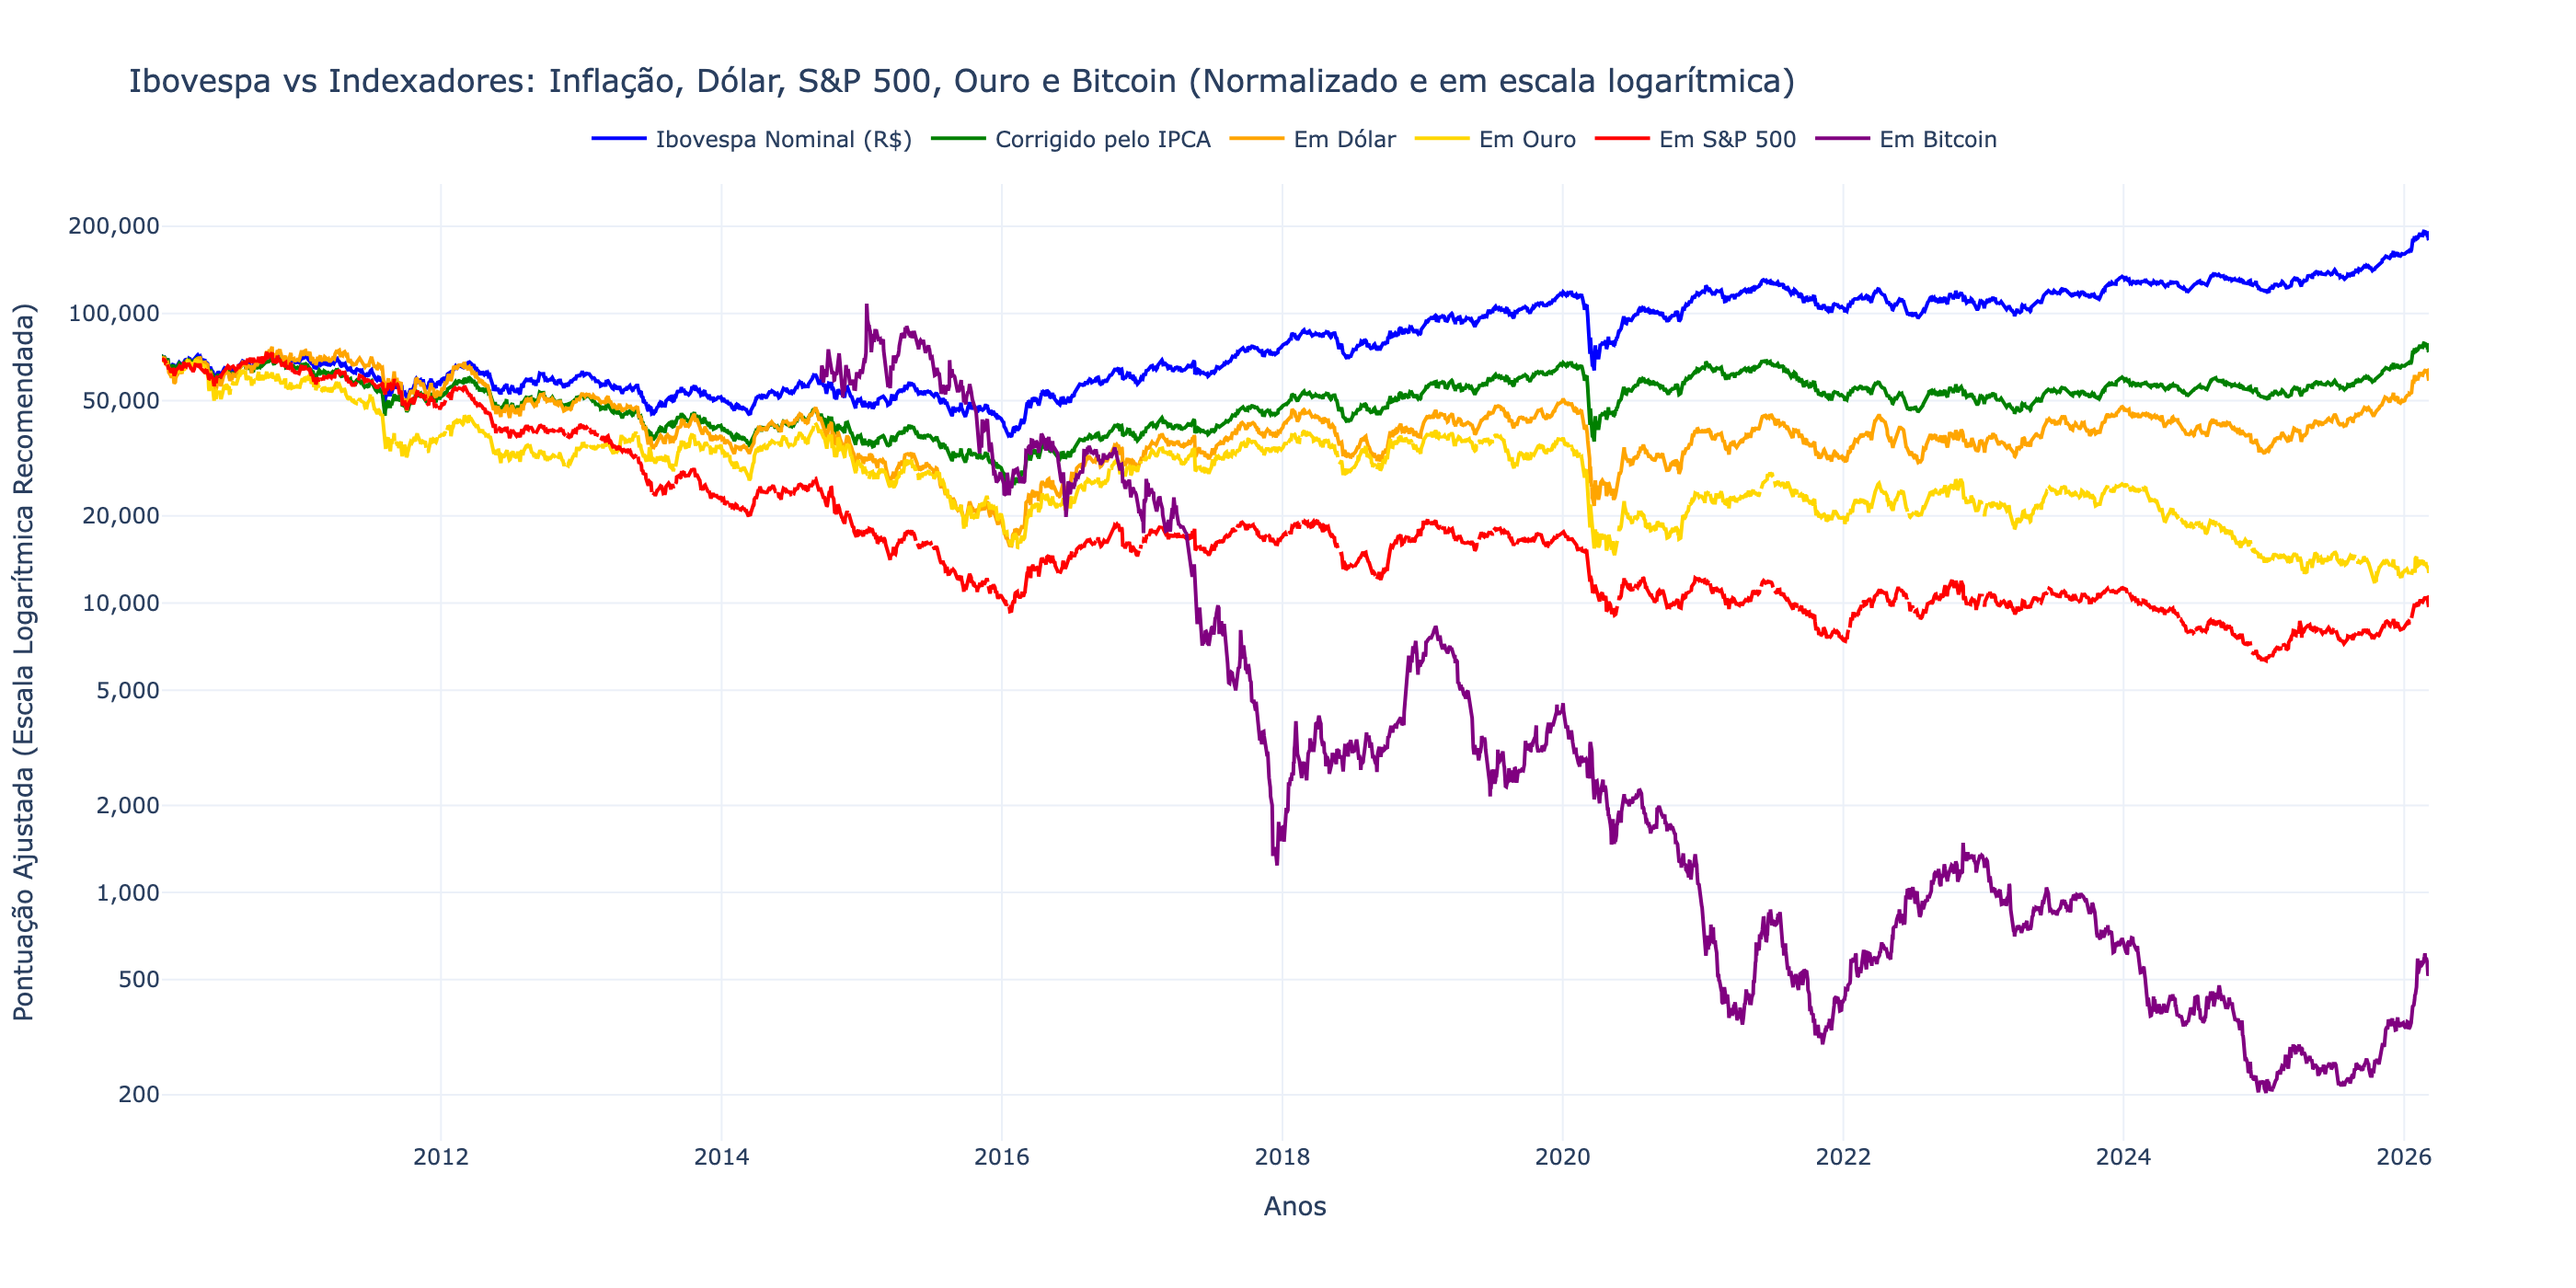
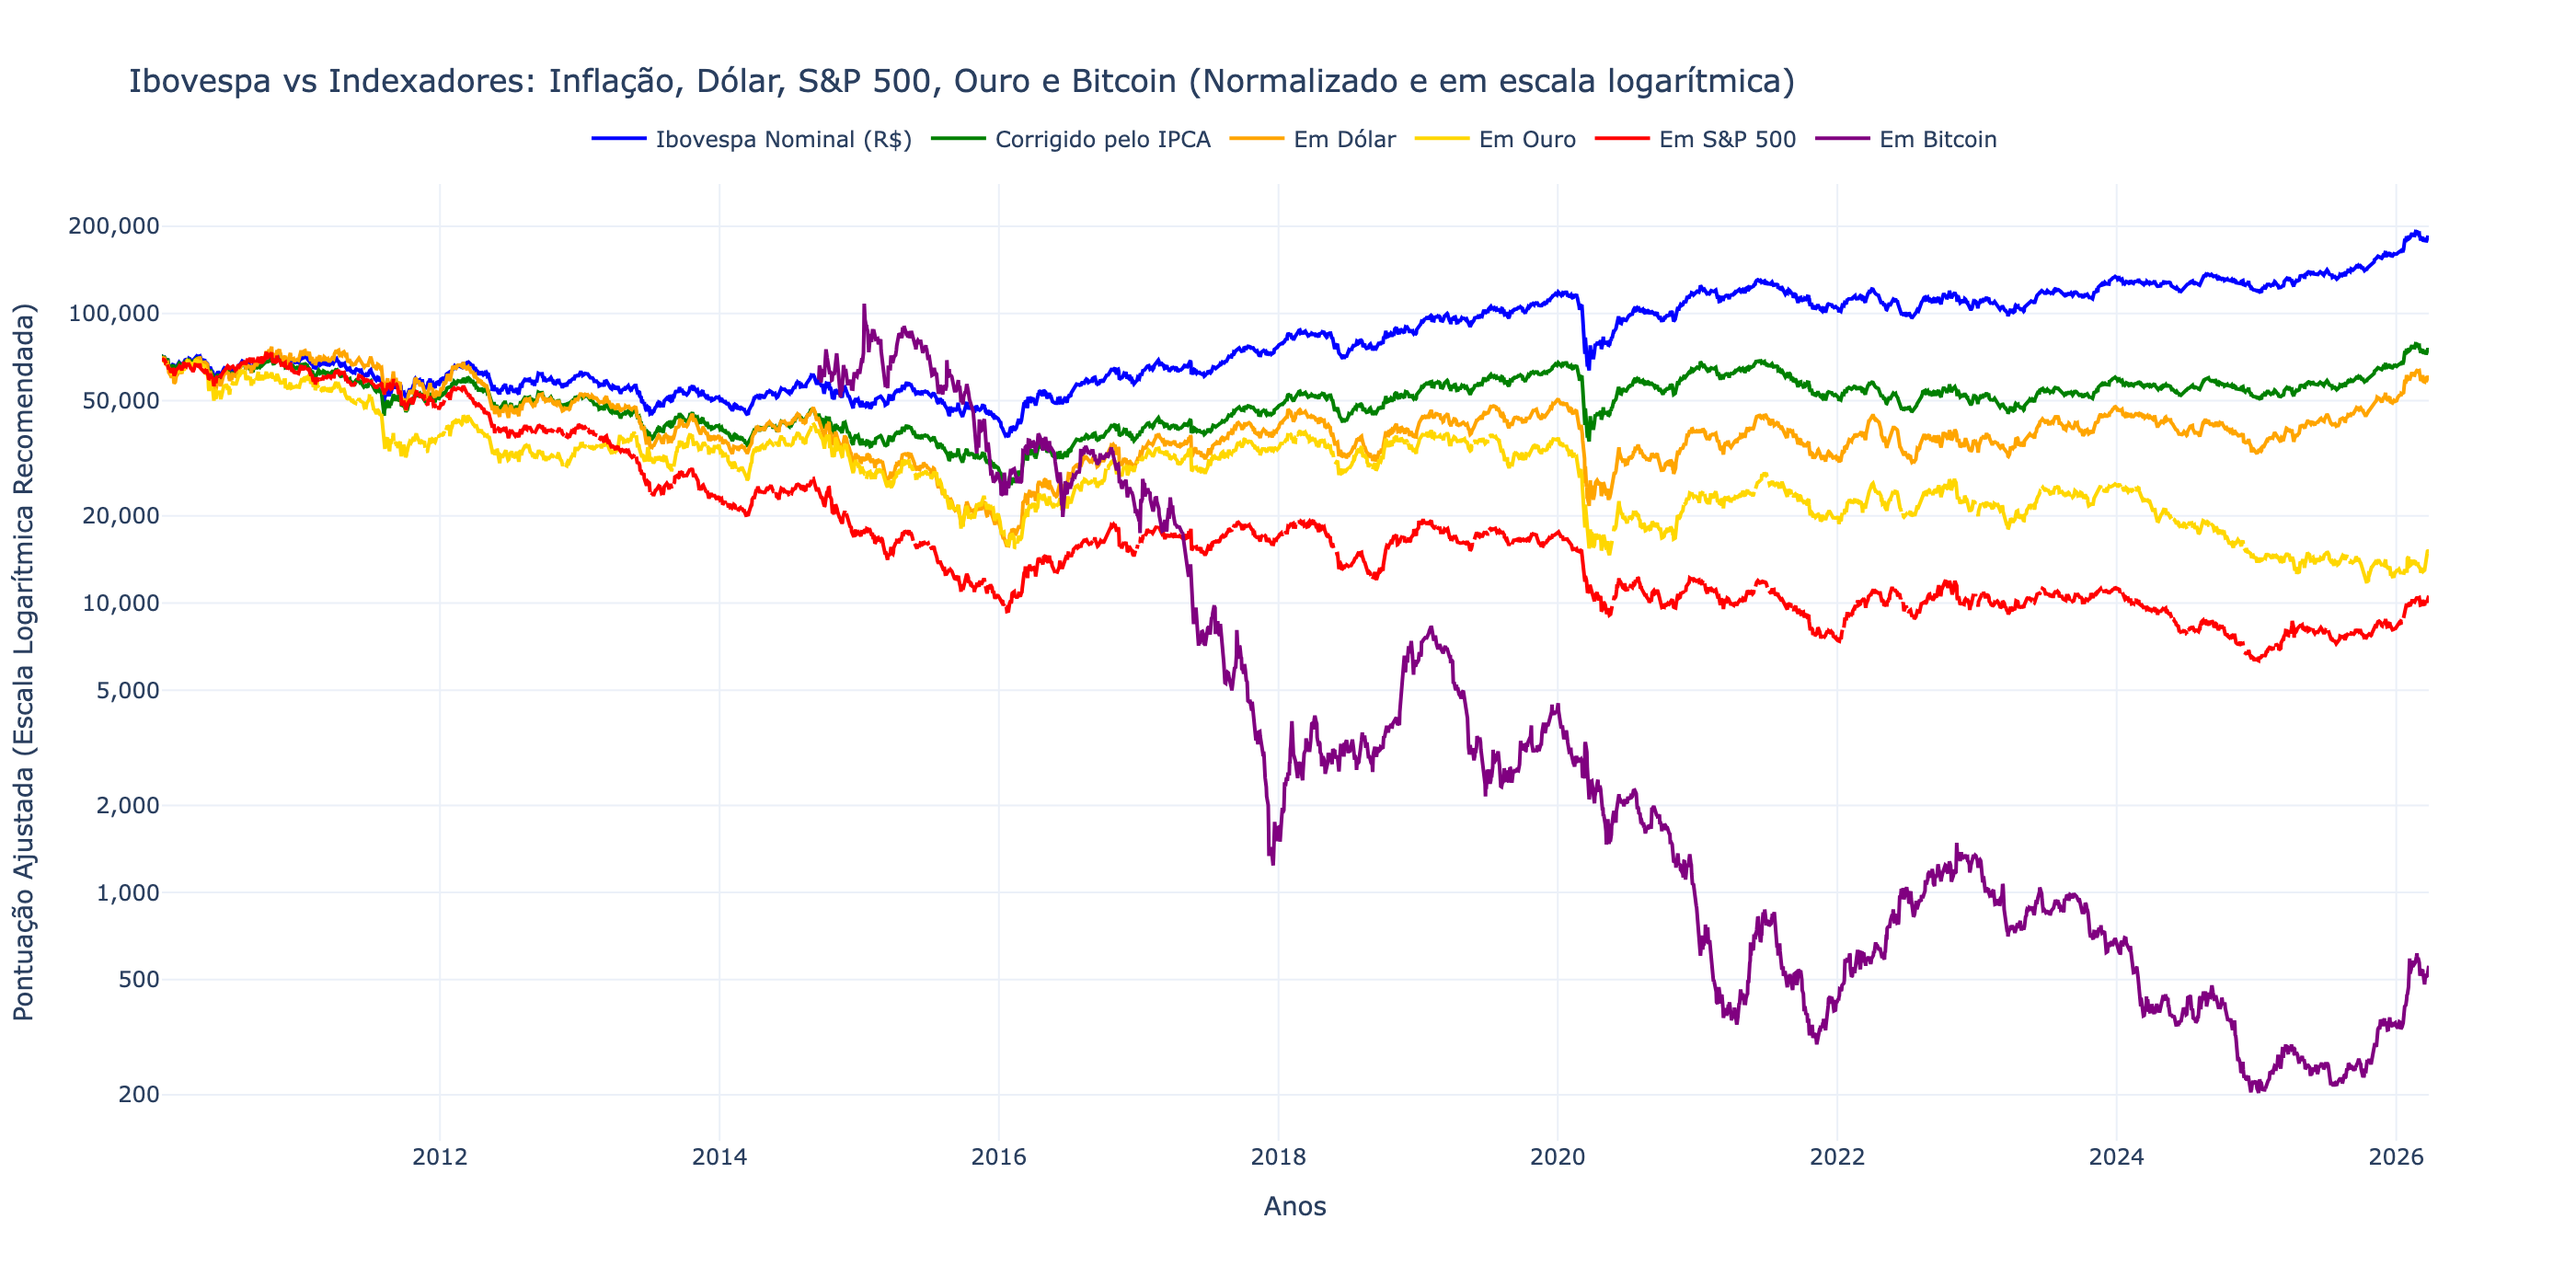
Add GitHub Actions workflow for automatic chart updates and HTML export
- Implement weekly scheduled job to generate and publish interactive chart on GitHub Pages
- Update README with GitHub Pages instructions and project structure
- Modify chart generation script to export HTML and handle PNG export failures

Closes #5

diff --git a/docs/index.html b/docs/index.html
@@ -1,0 +1,28 @@
+<!DOCTYPE html>
+<html lang="pt-BR">
+<head>
+  <meta charset="UTF-8" />
+  <meta name="viewport" content="width=device-width, initial-scale=1.0" />
+  <title>Ibovespa vs Indexadores</title>
+  <style>
+    body {
+      font-family: system-ui, sans-serif;
+      display: flex;
+      flex-direction: column;
+      align-items: center;
+      justify-content: center;
+      min-height: 100vh;
+      margin: 0;
+      background: #f8f9fa;
+      color: #333;
+    }
+    h1 { font-size: 1.4rem; text-align: center; margin-bottom: 0.5rem; }
+    p  { color: #666; text-align: center; }
+  </style>
+</head>
+<body>
+  <h1>📈 Ibovespa vs Indexadores</h1>
+  <p>O gráfico interativo será gerado automaticamente pelo GitHub Actions.<br>
+     Aguarde a primeira execução ou acione o workflow manualmente.</p>
+</body>
+</html>

diff --git a/src/index_comparator.py b/src/index_comparator.py
@@ -153,11 +153,24 @@ fig.update_layout(
     yaxis_type="log"
 )
 
-# 8. Exportar imagem estática
-output_dir = os.path.join(os.path.dirname(os.path.dirname(os.path.abspath(__file__))), 'output')
+# 8. Exportar HTML interativo (GitHub Pages)
+root_dir = os.path.dirname(os.path.dirname(os.path.abspath(__file__)))
+docs_dir = os.path.join(root_dir, 'docs')
+os.makedirs(docs_dir, exist_ok=True)
+html_path = os.path.join(docs_dir, 'index.html')
+fig.write_html(html_path, include_plotlyjs='cdn')
+print(f'HTML interativo salvo em: {html_path}')
+
+# 9. Exportar imagem estática
+output_dir = os.path.join(root_dir, 'output')
 os.makedirs(output_dir, exist_ok=True)
 output_path = os.path.join(output_dir, 'ibovespa_comparativo.png')
-fig.write_image(output_path, width=1400, height=700, scale=2)
-print(f'Gráfico salvo em: {output_path}')
+try:
+    fig.write_image(output_path, width=1400, height=700, scale=2)
+    print(f'Gráfico salvo em: {output_path}')
+except Exception as e:
+    print(f'Aviso: não foi possível exportar PNG ({e})')
 
-fig.show()
+# Exibe no browser apenas quando rodando localmente
+if not os.environ.get('CI'):
+    fig.show()

diff --git a/README.md b/README.md
@@ -1,4 +1,4 @@
-# TradingWithData
+# Trading with Data
 
 Comparativo do índice iBovespa, medido em **Reais nominais**, com outros índices financeiros, tais como o **IPCA**, convertido para **Dólar**, ajustado ao **Ouro** e **Bitcoin** (este último com dados históricos desde 2010).
 
@@ -67,8 +67,9 @@ O script irá:
 1. Baixar cotações históricas do Ibovespa, USD/BRL, BTC/USD, Ouro Futuro e S&P 500 (via yfinance)
 2. Buscar o IPCA mensal histórico via SIDRA/IBGE
 3. Calcular o Ibovespa em cada perspectiva (nominal, real, dólar, ouro, S&P 500 e bitcoin)
-4. Salvar o gráfico como imagem PNG em `output/ibovespa_comparativo.png`
-5. Abrir o gráfico interativo no seu navegador padrão.
+4. Salvar o gráfico interativo como HTML em `docs/index.html` (publicado no GitHub Pages)
+5. Salvar o gráfico como imagem PNG em `output/ibovespa_comparativo.png`
+6. Abrir o gráfico interativo no seu navegador padrão (apenas localmente).
 
 ### Notebook Jupyter
 
@@ -83,10 +84,30 @@ jupyter notebook
 
 ---
 
+## Visualização Online (GitHub Pages)
+
+O gráfico é publicado automaticamente em:
+
+> **`https://<seu-usuario>.github.io/TradingWithData`**
+
+Um **GitHub Actions** (`.github/workflows/update_chart.yml`) roda o script toda semana (segundas às 8h BRT) e publica o resultado sem necessidade de IDE ou instalação local. Você também pode acionar a atualização manualmente pela aba **Actions** do repositório.
+
+Para ativar o GitHub Pages no seu repositório:
+1. Vá em **Settings → Pages**
+2. Em *Source*, selecione a branch `main` e a pasta `/docs`
+3. Salve e aguarde alguns minutos
+
+---
+
 ## Estrutura do Projeto
 
 ```
 TradingWithData/
+├── .github/
+│   └── workflows/
+│       └── update_chart.yml  # GitHub Actions — atualização semanal automática
+├── docs/
+│   └── index.html            # Gráfico interativo (GitHub Pages)
 ├── src/
 │   └── index_comparator.py   # Script principal
 ├── output/

diff --git a/CHANGELOG.md b/CHANGELOG.md
@@ -7,6 +7,21 @@ e este projeto segue [Semantic Versioning](https://semver.org/lang/pt-BR/).
 
 ---
 
+## [1.4.0] - 2026-03-28
+
+### Adicionado
+- Publicação automática do gráfico no **GitHub Pages** (`docs/index.html`)
+- **GitHub Actions** (`.github/workflows/update_chart.yml`) que executa o script semanalmente (segundas às 8h BRT) e a cada disparo manual
+- Exportação do gráfico como HTML interativo via `fig.write_html()` com Plotly embutido via CDN
+- Página `docs/index.html` criada como placeholder inicial para o GitHub Pages
+
+### Alterado
+- Script adaptado para não abrir o browser automaticamente quando executado em ambiente CI (`CI=true`)
+- Exportação de PNG agora é tolerante a falhas (não interrompe a execução em ambientes sem kaleido)
+- `README.md` atualizado com instruções de ativação do GitHub Pages e nova estrutura de pastas
+
+---
+
 ## [1.3.0] - 2026-03-08
 
 ### Adicionado
